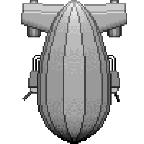
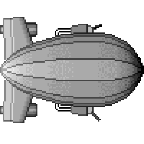
Add files via upload

diff --git a/src/main/java/com/serenki/game/Sprite.java b/src/main/java/com/serenki/game/Sprite.java
@@ -2,50 +2,108 @@ package com.serenki.game;
 
 import javafx.scene.canvas.GraphicsContext;
 import javafx.scene.image.Image;
+import javafx.scene.transform.Rotate;
 
 public class Sprite {
 
     //https://docs.oracle.com/javase/8/javafx/api/javafx/scene/image/Image.html
     private Image image;
 
-    private double rotation;
+    private double rotationAngle;
 
     public Sprite(String pathToImage) {
         this.image = new Image(pathToImage);
-        this.rotation = 0;
     }
 
     public Sprite(String pathToImage, double width, double height) {
         this.image = new Image(pathToImage, height, width, false, false);
-        this.rotation = 0;
     }
 
     /**
      *
      * @param position The ingame position (default from 0.0 to 15.0)
      * @param context
-     */
+     */ /*
     public void render(Vector position, GraphicsContext context) {
         GridCoordinate upperLeftCorner = new GridCoordinate((int) ((position.getX() * Battlefield.SQUARE_SIZE) - image.getHeight() / 2),
                 (int) ((position.getY() * Battlefield.SQUARE_SIZE) - (image.getWidth() / 2)));
         this.render(upperLeftCorner, context);
-    }
+    } */
 
     /**
      *
      * @param pixelCoordinate The pixel-position the top left corner of the image should be placed in.
      * @param context
-     */
+     */ /*
     public void render(GridCoordinate pixelCoordinate, GraphicsContext context) {
         context.drawImage(this.image, pixelCoordinate.getX(), pixelCoordinate.getY());
+    } */
+
+
+
+    /**              ROTATION STUFF             **/
+    // https://stackoverflow.com/questions/18260421/how-to-draw-image-rotated-on-javafx-canvas
+
+    /**
+     * Sets the transform for the GraphicsContext to rotate around a pivot point.
+     *
+     * @param graphicsContext the graphics context the transform to applied to.
+     * @param px the x pivot co-ordinate for the rotation (in canvas co-ordinates).
+     * @param py the y pivot co-ordinate for the rotation (in canvas co-ordinates).
+     */
+    private void rotate(GraphicsContext graphicsContext, double px, double py) {
+        Rotate r = new Rotate(this.rotationAngle, px, py);
+        graphicsContext.setTransform(r.getMxx(), r.getMyx(), r.getMxy(), r.getMyy(), r.getTx(), r.getTy());
     }
 
+    /**
+     *
+     * @param position
+     * @param graphicsContext
+     */
+    public void render(Vector position, GraphicsContext graphicsContext) {
+        GridCoordinate upperLeftCorner = new GridCoordinate((int) ((position.getX() * Battlefield.SQUARE_SIZE) - image.getHeight() / 2),
+                (int) ((position.getY() * Battlefield.SQUARE_SIZE) - (image.getWidth() / 2)));
+        render(upperLeftCorner, graphicsContext);
+    }
+
+    /**
+     *
+     * @param pixelCoordinate The pixel-position the top left corner of the image
+     * @param graphicsContext
+     */
+    public void render(GridCoordinate pixelCoordinate, GraphicsContext graphicsContext) {
+        graphicsContext.save();
+        rotate(graphicsContext, pixelCoordinate.getX() + image.getWidth() / 2, pixelCoordinate.getY() + image.getHeight() / 2);
+        graphicsContext.drawImage(image, pixelCoordinate.getX(), pixelCoordinate.getY());
+        graphicsContext.restore();
+    }
+
+    /**
+     *
+     * @param facing The vector (direction) in which the image should be facing.
+     */
+    public void setRotationAngle(Vector facing) {
+        if (facing.getY() < 0)
+            this.rotationAngle = -Math.toDegrees(new Vector(1, 0).angleTo(facing));
+
+        else
+            this.rotationAngle = Math.toDegrees(new Vector(1, 0).angleTo(facing));
+    }
+
+    public void setRotationAngle(double rotationAngle) {
+        this.rotationAngle = rotationAngle;
+    }
+
+
+    /**              GETTERS                    **/
+
+    /**
+     *
+     * @return image
+     */
     public Image getImage() {
         return image;
-    }
-
-    public void changeImageRotationTo(double rotationInDegrees) {
-        this.rotation = Math.toRadians(rotationInDegrees);
     }
 
     public double getWidth() {

diff --git a/src/main/java/com/serenki/game/LevelManager.java b/src/main/java/com/serenki/game/LevelManager.java
@@ -25,7 +25,7 @@ public class LevelManager {
             return;
         levels.peek().update();
         if (!levels.peek().isRunning()) {
-            levels.poll();
+            this.game.getPlayer().changeMoneyBy(levels.poll().getReward());
         }
     }
 
@@ -46,19 +46,19 @@ public class LevelManager {
 
 
     private void loadLevels() {
-        Level level1 = new Level(game);
+        Level level1 = new Level(game, 10000);
         for (int i = 0; i < 10; i++) {
-            level1.addEnemy(new Zeppelin(new Vector(Math.random() * 15, -0.5), game.getPathfinding()), 1d);
+            level1.addEnemy(new Airplane(new Vector(Math.random() * 15, -0.5), game.getPathfinding()), 1d);
         }
         levels.add(level1);
 
-        Level level2 = new Level(game);
+        Level level2 = new Level(game, 100);
         for (int i = 0; i < 15; i++) {
             level2.addEnemy(new MilitaryTruck(new Vector(-0.5, Math.random() * 15), game.getPathfinding()), 0.5d);
         }
         levels.add(level2);
 
-        Level level3 = new Level(game);
+        Level level3 = new Level(game, 6969);
         for (int i = 0; i < 20; i++) {
             if (Math.random() < 0.5)
                 level3.addEnemy(new Soldier(new Vector(Math.random() * 15, -0.5), game.getPathfinding()), Math.random() * 1d);
@@ -70,7 +70,7 @@ public class LevelManager {
         level3.addEnemy(new Airplane(new Vector(-0.5, 8.5), game.getPathfinding()), 0);
         levels.add(level3);
 
-        Level level4 = new Level(game);
+        Level level4 = new Level(game, 10000000);
         level4.addEnemy(new Zeppelin(new Vector(7.5, -5), game.getPathfinding()), 2d);
         levels.add(level4);
     }
@@ -91,8 +91,11 @@ public class LevelManager {
 
         private int framesSinceLastSpawn;
 
-        public Level(@NotNull final Game game) {
+        private int reward;
+
+        public Level(@NotNull final Game game, int reward) {
             this.game = game;
+            this.reward = reward;
             enemyQueue = new ConcurrentLinkedQueue<>();
             delay = new ConcurrentLinkedQueue<>();
             running = false;
@@ -130,6 +133,10 @@ public class LevelManager {
 
         public boolean isRunning() {
             return running;
+        }
+
+        public int getReward() {
+            return reward;
         }
 
         /**

diff --git a/src/main/java/com/serenki/game/enemies/Enemy.java b/src/main/java/com/serenki/game/enemies/Enemy.java
@@ -129,8 +129,9 @@ public abstract class Enemy extends GameObject {
         Vector velocity = this.position.vectorTo(path.peek().getPosition());
         velocity = velocity.normalize();
         velocity = velocity.multiply(speed);
-        this.changeRotation(new Vector(1, 0).angleTo(velocity));
         this.position = position.add(velocity);
+
+        this.sprite.setRotationAngle(velocity);
 
         if (this.position.distanceTo(path.peek().getPosition()) < 0.05) {
             this.path.pop();
@@ -138,7 +139,7 @@ public abstract class Enemy extends GameObject {
     }
 
     private void cheatMove() {
-        System.out.println("cheatMove is used by: " + this + " (at Position (" + this.getPosition().getX() + ", " + this.getPosition().getY() + "))");
+        //System.out.println("cheatMove is used by: " + this + " (at Position (" + this.getPosition().getX() + ", " + this.getPosition().getY() + "))");
         Vector velocity = this.position.vectorTo(destination);
         velocity = velocity.normalize();
         velocity = velocity.multiply(speed);
@@ -172,29 +173,5 @@ public abstract class Enemy extends GameObject {
         return destination;
     }
 
-    /**
-     * @param position The exact position on the board. (Default: From 0.0 to 15.0, both x and y)
-     * @param speed The speed per second the enemy moves.
-     * @param hitBoxRadius The radius of the circular hitbox of the enemy. (Used by missiles)
-     * @param pathToImage
-     * @deprecated Doesn't give HP
-     */
-    @Deprecated
-    public Enemy(Vector position, double speed, double hitBoxRadius, String pathToImage) {
-        super(position, pathToImage);
-        setSpeed(speed);
-        setHitBoxRadius(hitBoxRadius);
-        setDestinationBasedOnStart(position);
-        setHealthPoints(1);
-    }
-
-    /**
-     * @param pathToImage
-     * @deprecated
-     */
-    @Deprecated
-    public Enemy(String pathToImage) {
-        super(pathToImage);
-    }
 
 }

diff --git a/src/main/java/com/serenki/game/towers/QuadrupleShooter.java b/src/main/java/com/serenki/game/towers/QuadrupleShooter.java
@@ -25,13 +25,13 @@ public class QuadrupleShooter extends Tower {
         if (getTarget() == null)
             return;
         this.projectilesManager.add(new GuidedMissile(this.position.add(new Vector(0.4, 0)), this.getTarget(),
-                5, 4, "file:src/main/resources/com/serenki/art/projectiles/SpikeMissile.png"));
+                5, 4, false,"file:src/main/resources/com/serenki/art/projectiles/SpikeMissile.png"));
         this.projectilesManager.add(new GuidedMissile(this.position.add(new Vector(-0.4, 0)), this.getTarget(),
-                5, 4, "file:src/main/resources/com/serenki/art/projectiles/SpikeMissile.png"));
+                5, 4, false,"file:src/main/resources/com/serenki/art/projectiles/SpikeMissile.png"));
         this.projectilesManager.add(new GuidedMissile(this.position.add(new Vector(0, 0.4)), this.getTarget(),
-                5, 4, "file:src/main/resources/com/serenki/art/projectiles/SpikeMissile.png"));
+                5, 4, false,"file:src/main/resources/com/serenki/art/projectiles/SpikeMissile.png"));
         this.projectilesManager.add(new GuidedMissile(this.position.add(new Vector(0, -0.4)), this.getTarget(),
-                5, 4, "file:src/main/resources/com/serenki/art/projectiles/SpikeMissile.png"));
+                5, 4, false,"file:src/main/resources/com/serenki/art/projectiles/SpikeMissile.png"));
         reload();
     }
 }

diff --git a/src/main/java/com/serenki/game/enemies/Airplane.java b/src/main/java/com/serenki/game/enemies/Airplane.java
@@ -5,15 +5,25 @@ import com.serenki.game.pathfinding.Pathfinding;
 
 public class Airplane extends Enemy {
 
+    private Vector velocity;
+
     public Airplane(Vector position, Pathfinding pathfinding) {
         super(position, pathfinding, 2, 0.2, 50, 20,1, "file:src/main/resources/com/serenki/art/enemies/Airplane.png");
+
+        calculateVelocity();
+    }
+
+    private void calculateVelocity() {
+        this.velocity = this.position.vectorTo(super.getDestination());
+        this.velocity = this.velocity.normalize();
+        this.velocity = this.velocity.multiply(super.getSpeed());
+        this.position = this.position.add(this.velocity);
+
+        this.sprite.setRotationAngle(this.velocity);
     }
 
     @Override
     public void move() {
-        Vector velocity = this.position.vectorTo(super.getDestination());
-        velocity = velocity.normalize();
-        velocity = velocity.multiply(super.getSpeed());
-        this.position = position.add(velocity);
+        this.position = this.position.add(this.velocity);
     }
 }

diff --git a/src/main/java/com/serenki/game/projectiles/GuidedMissile.java b/src/main/java/com/serenki/game/projectiles/GuidedMissile.java
@@ -16,8 +16,8 @@ public class GuidedMissile extends Projectile {
      * @param speed       The distance per second the projectile moves.
      * @param pathToImage
      */
-    public GuidedMissile(@NotNull Vector position, @NotNull Enemy target, int damage, double speed, @NotNull String pathToImage) {
-        super(position, speed, pathToImage);
+    public GuidedMissile(@NotNull Vector position, @NotNull Enemy target, int damage, double speed, boolean rotatableProjectile, @NotNull String pathToImage) {
+        super(position, speed, rotatableProjectile, pathToImage);
         this.target = target;
         this.damage = damage;
     }
@@ -30,6 +30,8 @@ public class GuidedMissile extends Projectile {
             return;
         }
         this.position = this.position.add(this.calculateVelocity());
+        if (isRotatableProjectile())
+            this.sprite.setRotationAngle(position.vectorTo(target.getPosition()));
     }
 
 

diff --git a/src/main/java/com/serenki/game/projectiles/Projectile.java b/src/main/java/com/serenki/game/projectiles/Projectile.java
@@ -6,18 +6,20 @@ import com.serenki.game.Vector;
 
 public abstract class Projectile extends GameObject {
 
-    //distance per frame
     private double speed;
     private boolean reachedTarget;
+
+    private boolean rotatableProjectile;
 
     /**
      *
      * @param speed The distance per second the projectile moves.
      * @param pathToImage
      */
-    public Projectile(Vector position, double speed, String pathToImage) {
+    public Projectile(Vector position, double speed, boolean rotatableProjectile, String pathToImage) {
         super(position, pathToImage);
         setSpeed(speed);
+        this.rotatableProjectile = rotatableProjectile;
     }
 
     /**
@@ -51,7 +53,9 @@ public abstract class Projectile extends GameObject {
         return this.speed;
     }
 
-
+    protected boolean isRotatableProjectile() {
+        return rotatableProjectile;
+    }
 
     public abstract void move();
 }

diff --git a/src/main/java/com/serenki/game/projectiles/Missile.java b/src/main/java/com/serenki/game/projectiles/Missile.java
@@ -18,10 +18,12 @@ public class Missile extends Projectile {
      * @param speed       The distance per second the projectile moves.
      * @param pathToImage
      */
-    public Missile(@NotNull Vector position, @NotNull Vector targetPos, double speed, @NotNull String pathToImage) {
-        super(position, speed, pathToImage);
+    public Missile(@NotNull Vector position, @NotNull Vector targetPos, double speed, boolean rotatableProjectile, @NotNull String pathToImage) {
+        super(position, speed, rotatableProjectile, pathToImage);
         this.targetPosition = targetPos;
         this.calculateVelocity();
+        if (isRotatableProjectile())
+            this.sprite.setRotationAngle(velocity);
     }
 
     private void calculateVelocity() {

diff --git a/src/main/java/com/serenki/game/towers/Cannon.java b/src/main/java/com/serenki/game/towers/Cannon.java
@@ -18,7 +18,7 @@ public class Cannon extends Tower {
         if (getTarget() == null)
             return;
         this.projectilesManager.add(new GuidedMissile(this.position.add(new Vector(0.4, -0.4)), this.getTarget(),
-                150, 4, "file:src/main/resources/com/serenki/art/projectiles/FireMissile.png"));
+                150, 4, false, "file:src/main/resources/com/serenki/art/projectiles/FireMissile.png"));
         reload();
     }
 }

diff --git a/src/main/java/com/serenki/game/towers/Sniper.java b/src/main/java/com/serenki/game/towers/Sniper.java
@@ -19,7 +19,7 @@ public class Sniper extends Tower{
         if (getTarget() == null)
             return;
         this.projectilesManager.add(new GuidedMissile(this.position.add(new Vector(0.35, 0)), this.getTarget(),
-                200, 8, "file:src/main/resources/com/serenki/art/projectiles/SniperMissile.png"));
+                200, 8, true, "file:src/main/resources/com/serenki/art/projectiles/SniperMissile.png"));
         reload();
     }
 }

diff --git a/src/main/java/com/serenki/game/enemies/Zeppelin.java b/src/main/java/com/serenki/game/enemies/Zeppelin.java
@@ -5,6 +5,6 @@ import com.serenki.game.pathfinding.Pathfinding;
 
 public class Zeppelin extends Enemy {
     public Zeppelin(Vector position, Pathfinding pathfinding) {
-        super(position, pathfinding, 0.3, 1, 5000, 300,50, "file:src/main/resources/com/serenki/art/enemies/Zeppelin.png");
+        super(position, pathfinding, 0.3, 0.7, 5000, 300,50, "file:src/main/resources/com/serenki/art/enemies/Zeppelin.png");
     }
 }

diff --git a/src/main/java/com/serenki/game/towers/Flamethrower.java b/src/main/java/com/serenki/game/towers/Flamethrower.java
@@ -24,7 +24,7 @@ public class Flamethrower extends Tower{
         if (getTarget() == null)
             return;
         this.projectilesManager.add(new GuidedMissile(this.position.add(new Vector(0.35, 0)), this.getTarget(),
-                1, 3, "file:src/main/resources/com/serenki/art/projectiles/Flame.png"));
+                1, 3, false,"file:src/main/resources/com/serenki/art/projectiles/Flame.png"));
     }
 }
 
